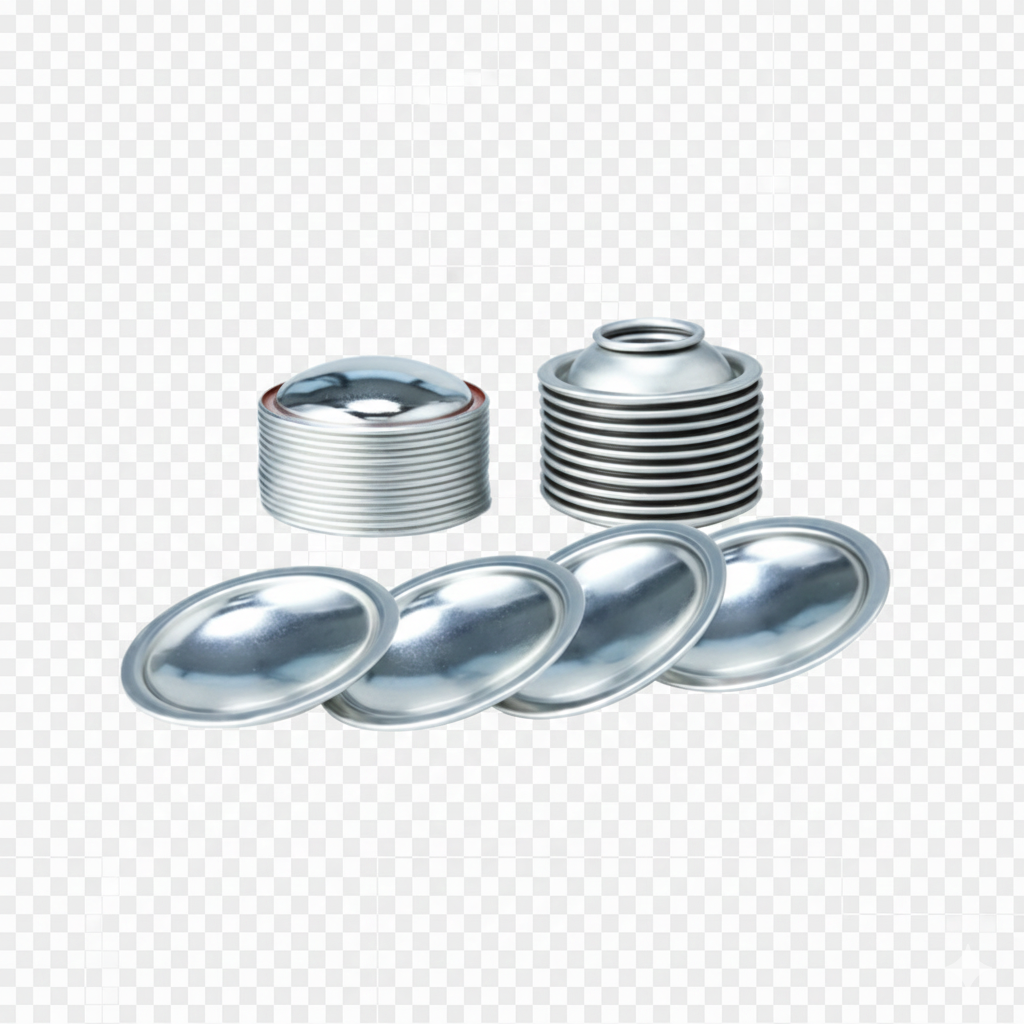
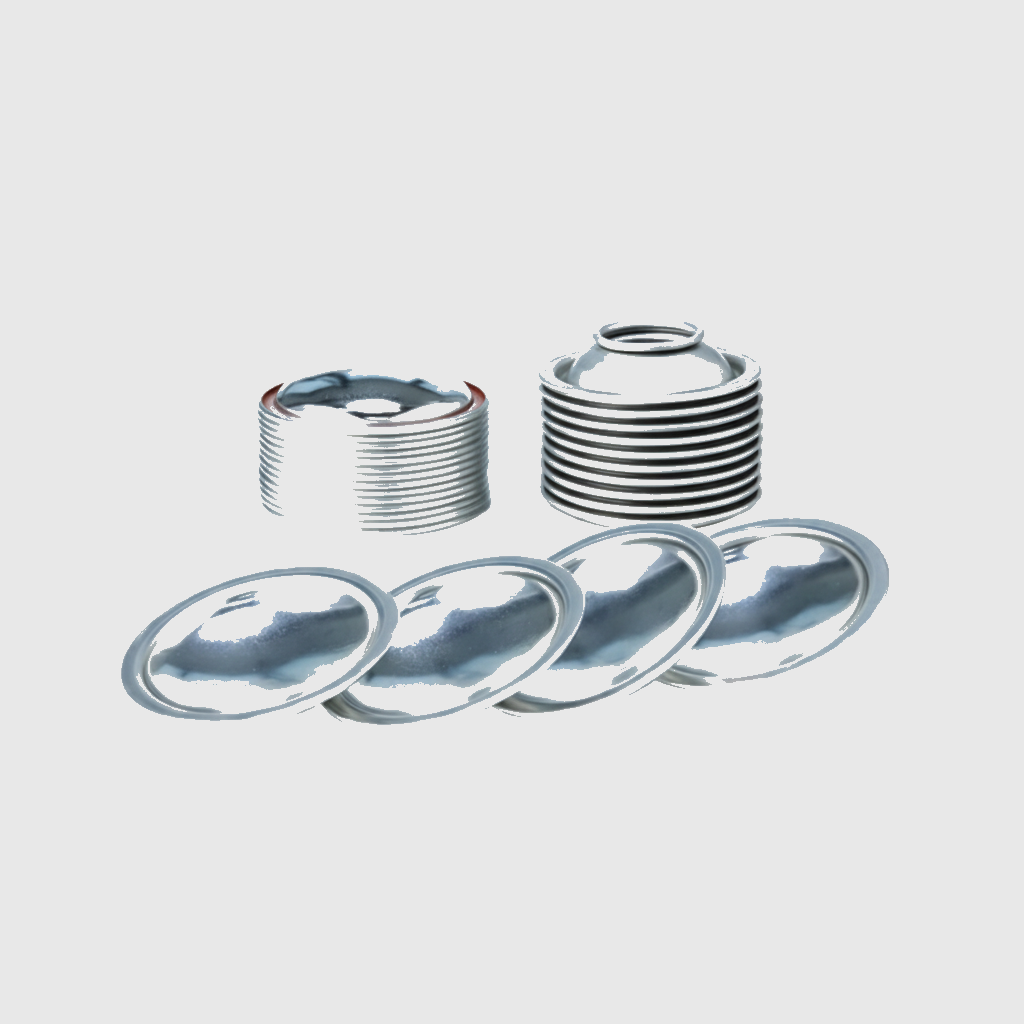
Update dome cone images with grey background, increase product image height to 500px

Changed region(s): [[0.125, 0.3125, 0.8438, 0.7188], [0.25, 0.3438, 0.4688, 0.5312], [0.4688, 0.5625, 0.5312, 0.5938]]

diff --git a/css/style.css b/css/style.css
@@ -617,8 +617,8 @@ h1, h2, h3, h4 {
 }
 
 .product-image {
-    height: 250px;
-    background: linear-gradient(135deg, #f5f5f5 0%, #e0e0e0 100%);
+    height: 500px;
+    background: linear-gradient(135deg, #f5f5f5 0%, #e8e8e8 100%);
     display: flex;
     align-items: center;
     justify-content: center;
@@ -641,7 +641,7 @@ h1, h2, h3, h4 {
     height: 100%;
     object-fit: contain;
     z-index: 1;
-    padding: 20px;
+    padding: 10px;
 }
 
 .product-illustration {
